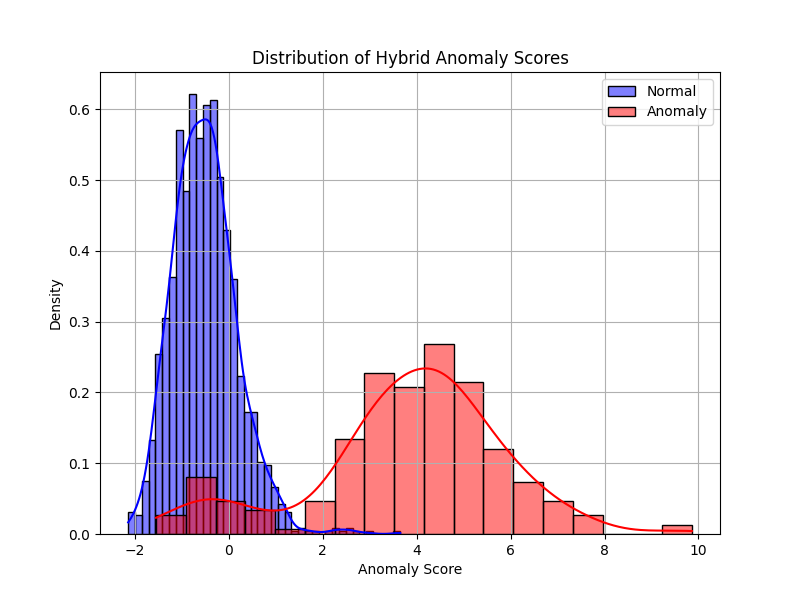
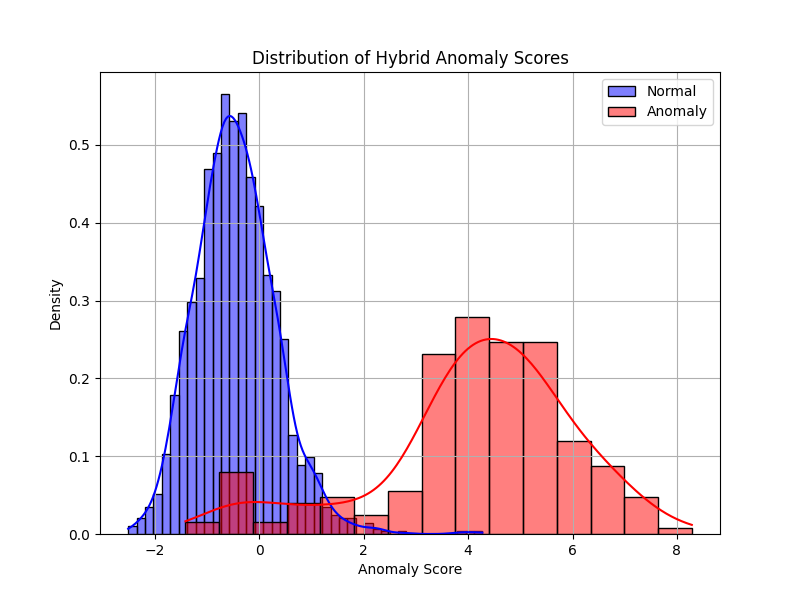
feat: Add initial Hybrid IDS analysis pipeline, synthetic data loader, and project documentation.

diff --git a/thesis/Hybrid-IDS-5G/src/dataset_loader.py b/thesis/Hybrid-IDS-5G/src/dataset_loader.py
@@ -17,14 +17,30 @@ def generate_synthetic_data(n_samples: int = 5000, n_features: int = 20) -> Tupl
     """
     print(f"Generating synthetic data with {n_samples} samples and {n_features} features...")
     X, y = make_classification(n_samples=n_samples, n_features=n_features, 
-                               n_informative=15, n_redundant=5, 
+                               n_informative=30, n_redundant=10, 
                                n_clusters_per_class=2, weights=[0.9, 0.1], 
                                flip_y=0.01, random_state=42)
     return X, y
 
+def get_nsl_kdd_feature_names() -> list[str]:
+    """
+    Returns the list of 41 features used in the NSL-KDD dataset.
+    """
+    return [
+        "duration", "protocol_type", "service", "flag", "src_bytes", "dst_bytes", "land", 
+        "wrong_fragment", "urgent", "hot", "num_failed_logins", "logged_in", "num_compromised", 
+        "root_shell", "su_attempted", "num_root", "num_file_creations", "num_shells", 
+        "num_access_files", "num_outbound_cmds", "is_host_login", "is_guest_login", "count", 
+        "srv_count", "serror_rate", "srv_serror_rate", "rerror_rate", "srv_rerror_rate", 
+        "same_srv_rate", "diff_srv_rate", "srv_diff_host_rate", "dst_host_count", 
+        "dst_host_srv_count", "dst_host_same_srv_rate", "dst_host_diff_srv_rate", 
+        "dst_host_same_src_port_rate", "dst_host_srv_diff_host_rate", "dst_host_serror_rate", 
+        "dst_host_srv_serror_rate", "dst_host_rerror_rate", "dst_host_srv_rerror_rate"
+    ]
+
 def load_data(
     n_samples: int = 10000, 
-    n_features: int = 20,
+    n_features: int = 41, # Updated default to match NSL-KDD
     test_size: float = 0.2,
     val_size: float = 0.1
 ) -> Tuple[np.ndarray, np.ndarray, np.ndarray, np.ndarray, np.ndarray, np.ndarray, StandardScaler]:

diff --git a/thesis/Hybrid-IDS-5G/src/run_analysis.py b/thesis/Hybrid-IDS-5G/src/run_analysis.py
@@ -1,7 +1,7 @@
 import numpy as np
 import os
 from sklearn.metrics import accuracy_score, precision_score, recall_score, confusion_matrix, roc_curve
-from dataset_loader import load_data
+from dataset_loader import load_data, get_nsl_kdd_feature_names
 from anomaly_score import HybridIDS
 from utils import plot_roc_curve, plot_anomaly_distribution, plot_feature_embeddings
 from typing import Optional
@@ -25,7 +25,11 @@ def main(output_dir: str = '../results') -> None:
     
     # 1. Load Data
     print("Loading Dataset...")
-    X_train, X_val, X_test, y_train, y_val, y_test, scaler = load_data()
+    features = get_nsl_kdd_feature_names()
+    print(f"Simulating NSL-KDD dataset with {len(features)} features:")
+    print(features)
+    
+    X_train, X_val, X_test, y_train, y_val, y_test, scaler = load_data(n_features=len(features))
     
     # Initialize IDS
     ids = HybridIDS()

diff --git a/thesis/Hybrid-IDS-5G/README.md b/thesis/Hybrid-IDS-5G/README.md
@@ -38,7 +38,7 @@ Where:
 ```text
 Hybrid-IDS-5G/
 │
-├── data/                   # Dataset storage (e.g., NSL-KDD, CICIDS2017)
+├── data/                   # Simulation of standard datasets (NSL-KDD with 41 features)
 ├── models/                 # Directory for saving trained models and statistical params
 │
 ├── src/                    # Core source code
